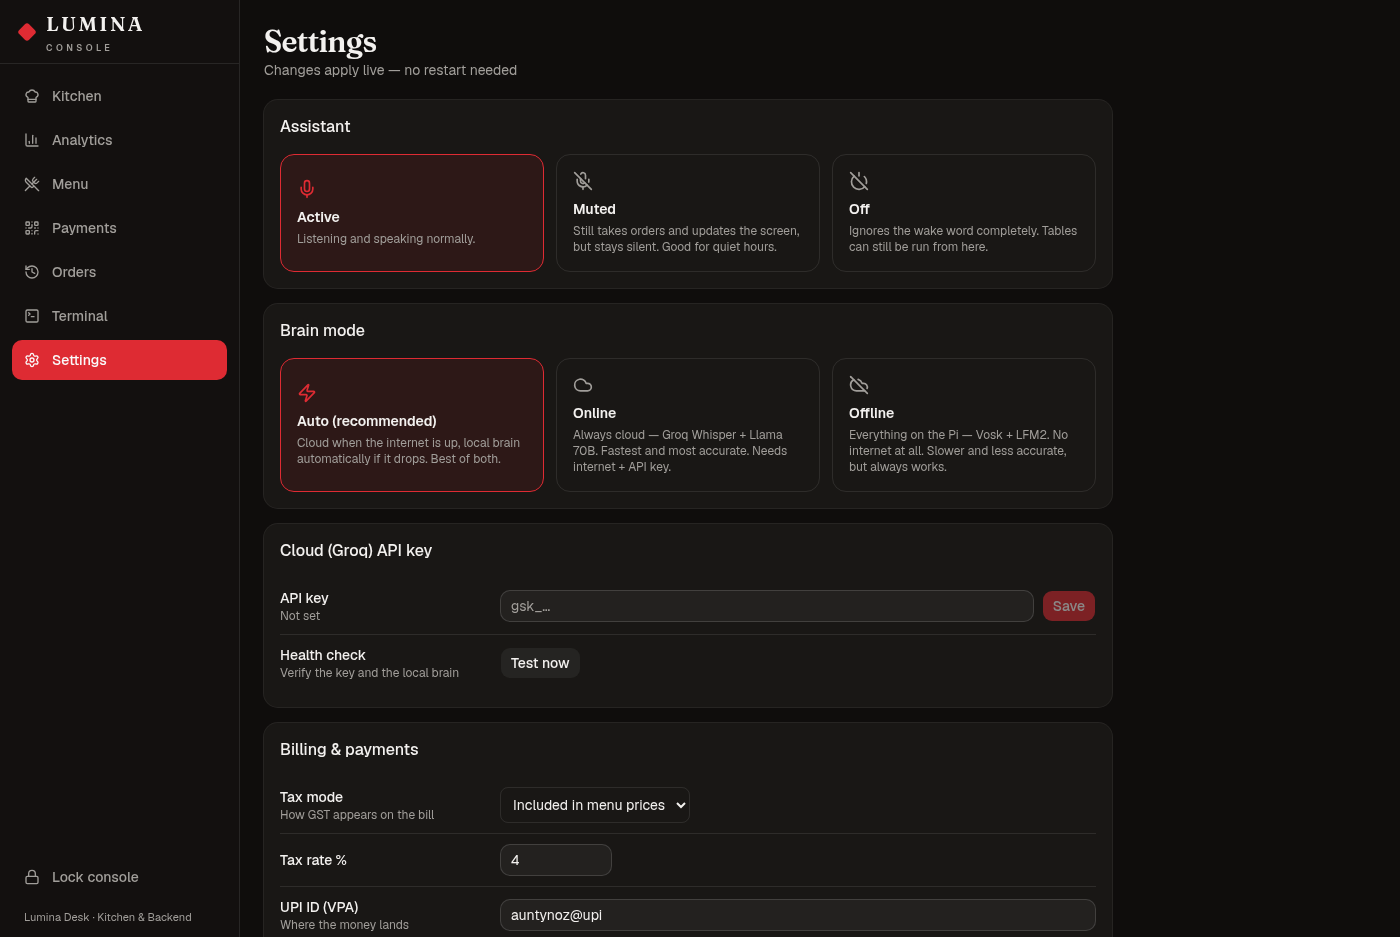
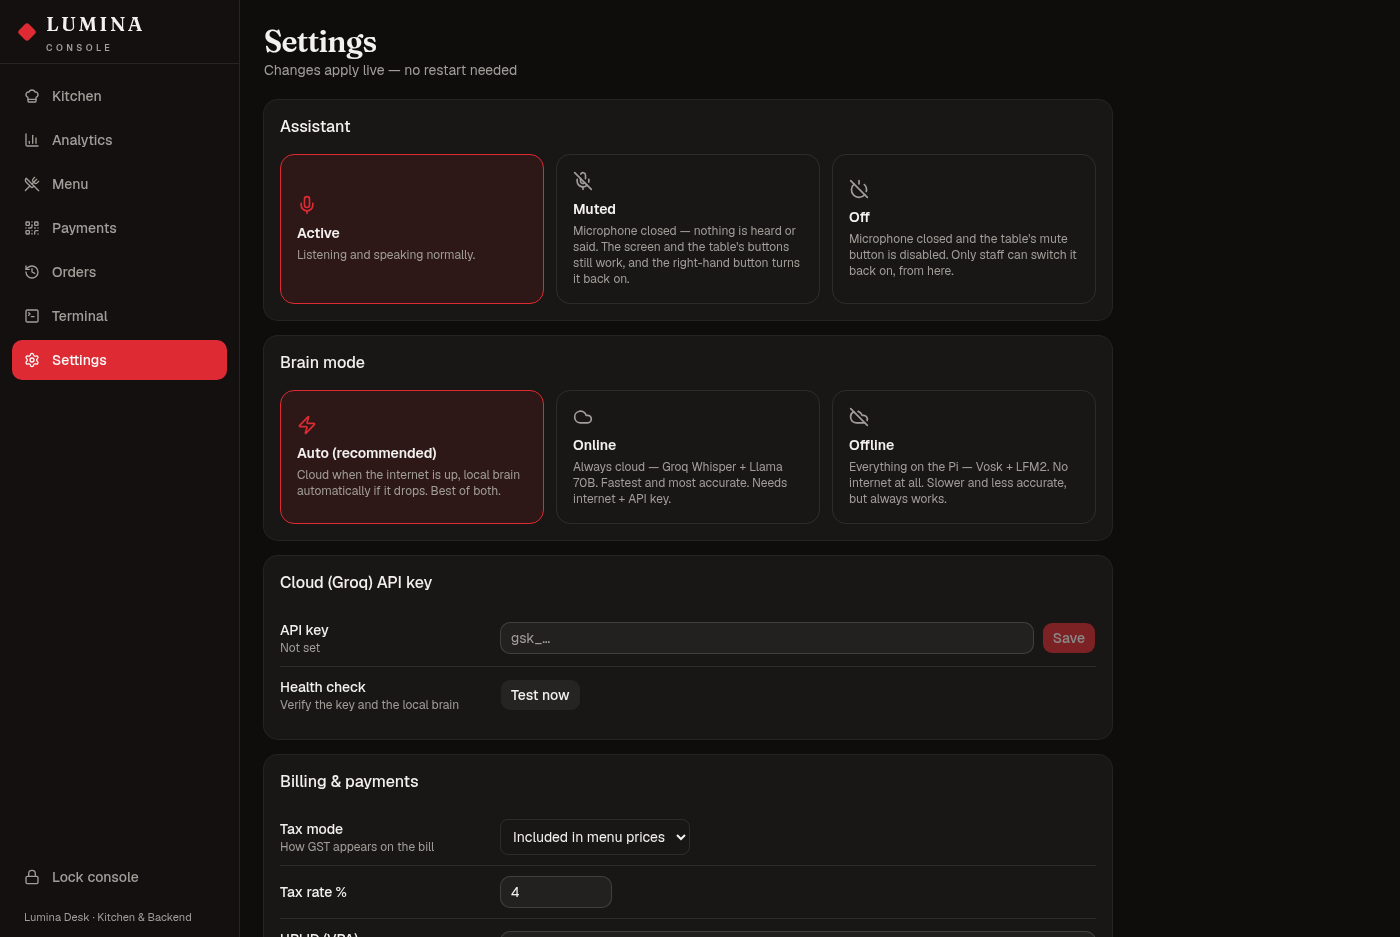
Muting closes the microphone instead of ignoring it
Mute meant "keep listening, don't speak". That is the wrong promise to make at a
restaurant table: the guest has no way to tell a mic that is being ignored from
one that is off, and the honest answer is that it was still recording.

Now "muted" and "off" both release the ALSA device — the reSpeaker's LED ring
goes dark, and `fuser /dev/snd/pcmC2D0c` shows nothing holding it. The wake-word
engine only runs while the state is active; buttons and console arrive over
MQTT, so both still work with the mic shut.

The two states now differ in who can undo them: the panel's right-hand button
toggles mute, but is ignored when the table is off, because off is a manager's
call from the console and the floor shouldn't quietly reverse it.

The panel stops lying, too. It no longer invites a guest to say "Hey Lumina"
when nothing is listening — the empty screen explains the mic is off and which
button brings it back, the footer points at the bill and server buttons, and the
badge reads "Mic off" rather than "Voice muted".

Verified end to end: console mute, console unmute, panel button both ways, and
the button correctly refusing to act while off.

diff --git a/admin/src/pages/Settings.tsx b/admin/src/pages/Settings.tsx
@@ -11,9 +11,9 @@ const ASSISTANT_STATES = [
   { id: "active", icon: Mic, label: "Active",
     desc: "Listening and speaking normally." },
   { id: "muted", icon: MicOff, label: "Muted",
-    desc: "Still takes orders and updates the screen, but stays silent. Good for quiet hours." },
+    desc: "Microphone closed — nothing is heard or said. The screen and the table's buttons still work, and the right-hand button turns it back on." },
   { id: "off", icon: PowerOff, label: "Off",
-    desc: "Ignores the wake word completely. Tables can still be run from here." },
+    desc: "Microphone closed and the table's mute button is disabled. Only staff can switch it back on, from here." },
 ]
 
 const MODES = [

diff --git a/ui_render.py b/ui_render.py
@@ -125,11 +125,11 @@ def _header(d, table, status, listening):
     tf = font("sans_bold", 18)
     _right(d, W - MARGIN, 43, f"Table {table}", tf, BLACK)
 
-    # When staff have muted the assistant, say so plainly — otherwise a guest
-    # would talk to a screen that has quietly stopped answering.
+    # When the mic is closed, say so plainly — otherwise a guest would talk to a
+    # screen that has quietly stopped listening.
     state = _assistant_state()
     if state in ("muted", "off"):
-        label = "Voice muted" if state == "muted" else "Voice off"
+        label = "Mic off" if state == "muted" else "Voice off"
         sf = font("sans_bold", 15)
         sw = d.textlength(label, font=sf)
         bx0 = W - MARGIN - sw - 56
@@ -250,7 +250,9 @@ def render_order(session, table="07", status="Listening", hint=None, kitchen=Non
             else:
                 y += 46
         _bill_card(d, session, rupee)
-        _footer(d, hint or "Say “Hey Lumina” to add more, or to pay.")
+        _footer(d, hint or ("Say “Hey Lumina” to add more, or to pay."
+                            if _assistant_state() == "active" else
+                            "Mic off · middle button shows your bill, left calls a server"))
     else:
         _render_welcome(d)
         _footer(d, hint or "Pure veg  ·  Pizzas, burgers, momos, shakes  ·  Table service by voice")
@@ -364,14 +366,35 @@ def render_payment(session, upi_url, table="07", vpa="", paid=False):
     _right(d, W - MARGIN, y + 34, f"{rupee}{_money(session.total())}",
            font("sans_bold", 40), RED)
 
-    _footer(d, f"Paying {vpa or 'the restaurant'} · say “Hey Lumina” if you need help")
+    _footer(d, f"Paying {vpa or 'the restaurant'} · "
+            + ("say “Hey Lumina” if you need help" if _assistant_state() == "active"
+               else "press the left button if you need help"))
     return img
 
 
 def _render_welcome(d):
     """Empty-cart state. The printed menu is already on the table, so this screen
     doesn't repeat it — it teaches the one thing a new guest needs to know: the
-    wake word, and the three things worth asking for."""
+    wake word, and the three things worth asking for.
+
+    When the mic is closed it must not invite anyone to talk to it. A guest who
+    speaks to a dead screen and gets nothing back blames the restaurant."""
+    state = _assistant_state()
+    if state != "active":
+        d.text((MARGIN, 156), "The microphone is", font=font("sans", 20), fill=BLACK)
+        d.text((MARGIN, 186), "switched off", font=font("serif_bold", 46), fill=RED)
+        d.text((MARGIN, 258),
+               "Press the right-hand button to turn it back on."
+               if state == "muted" else "Please order with a member of staff.",
+               font=font("sans", 18), fill=BLACK)
+        y = 300
+        for line in ("Left button  ·  call a server",
+                     "Middle button  ·  show your bill"):
+            d.ellipse([MARGIN + 2, y + 7, MARGIN + 8, y + 13], fill=RED)
+            d.text((MARGIN + 22, y), line, font=font("sans", 17), fill=BLACK)
+            y += 28
+        return
+
     d.text((MARGIN, 156), "Just say", font=font("sans", 20), fill=BLACK)
     d.text((MARGIN, 186), "“Hey Lumina”", font=font("serif_bold", 46), fill=RED)
 

diff --git a/wake_listen.py b/wake_listen.py
@@ -17,6 +17,7 @@ Stop: Ctrl-C
 """
 import json
 import os
+import queue
 import sys
 import time
 
@@ -81,12 +82,17 @@ def _handle_button(key: str, tbl, client):
         print(f"  [button] bill shown (₹{total:.0f})", flush=True)
 
     elif key == "2":
-        now_muted = settings.get("assistant_state") != "muted"
-        state = "muted" if now_muted else "active"
-        settings.save({"assistant_state": state})
-        client.publish(mqtt_bus.T_ASSISTANT, state, retain=True)
-        print(f"  [button] assistant {'muted' if now_muted else 'unmuted'}", flush=True)
-        if not now_muted:                 # speak only when turning sound back on
+        state = settings.get("assistant_state")
+        if state == "off":
+            # "Off" is a manager's decision made in the console. The floor button
+            # must not quietly undo it.
+            print("  [button] ignored — assistant is off", flush=True)
+            return
+        new = "active" if state == "muted" else "muted"
+        settings.save({"assistant_state": new})
+        client.publish(mqtt_bus.T_ASSISTANT, new, retain=True)
+        print(f"  [button] mic {'closed' if new == 'muted' else 'open'}", flush=True)
+        if new == "active":               # speak only when the mic comes back
             speak("I'm listening again.")
 
 
@@ -264,7 +270,27 @@ def main() -> None:
 
     with AudioCapture() as capture:
         while True:
-            frame = capture.read(timeout=2.0)     # int16 mono @16k
+            # Muted and off both mean the microphone is CLOSED, not ignored —
+            # so a guest can see (reSpeaker LED) and trust that nothing is being
+            # heard. Staff bring it back from the console or the panel button,
+            # both of which arrive over MQTT and so still work with the mic shut.
+            if settings.get("assistant_state") != "active":
+                if capture.live:
+                    capture.pause()
+                    detector.reset()
+                    print(f"  [mic] closed — assistant "
+                          f"{settings.get('assistant_state')}", flush=True)
+                time.sleep(0.3)
+                continue
+            if not capture.live:
+                capture.resume()
+                detector.reset()
+                print("  [mic] open — assistant active", flush=True)
+
+            try:
+                frame = capture.read(timeout=2.0)     # int16 mono @16k
+            except queue.Empty:
+                continue
             score = detector.score(frame)
 
             now = time.time()
@@ -274,11 +300,6 @@ def main() -> None:
                     and now - tbl["last"] > config.SESSION_IDLE_RESET_SEC):
                 tbl["session"] = Session()
                 tbl["welcomed"] = False
-
-            # Staff can switch the assistant off from the console or a panel
-            # button; the service keeps running, it just stops responding.
-            if settings.get("assistant_state") == "off":
-                continue
 
             thresh = float(settings.get("wake_threshold", config.OWW_THRESHOLD))
             if score >= thresh and (now - last_trigger) > config.WAKE_COOLDOWN_SEC:

diff --git a/audio.py b/audio.py
@@ -24,6 +24,10 @@ FRAME = 1600  # 0.1 s @ 16 kHz — capture granularity
 class AudioCapture:
     def __init__(self, max_seconds: float = 30.0):
         self._q: "queue.Queue[np.ndarray]" = queue.Queue(maxsize=int(max_seconds / 0.1))
+        self._stream = None
+        self._open()
+
+    def _open(self):
         self._stream = sd.InputStream(
             device=config.INPUT_DEVICE_INDEX,
             samplerate=config.SAMPLE_RATE,
@@ -50,8 +54,34 @@ class AudioCapture:
         self._stream.start()
 
     def stop(self):
-        self._stream.stop()
-        self._stream.close()
+        if self._stream is not None:
+            self._stream.stop()
+            self._stream.close()
+            self._stream = None
+
+    @property
+    def live(self) -> bool:
+        return self._stream is not None
+
+    def pause(self):
+        """Close the input stream so the OS hands the microphone back.
+
+        Muting has to mean the mic is *off*, not that we quietly ignore what it
+        hears — so we release the ALSA device entirely rather than just dropping
+        frames. On the reSpeaker the LED ring goes dark, which is the honest
+        signal a guest at the table needs.
+        """
+        if self._stream is None:
+            return
+        self.stop()
+        self.flush()
+
+    def resume(self):
+        if self._stream is not None:
+            return
+        self._open()
+        self._stream.start()
+        self.flush()
 
     def read(self, timeout: float = 1.0) -> np.ndarray:
         """Return the next 0.1 s frame of int16 mono audio."""

diff --git a/tts.py b/tts.py
@@ -109,14 +109,17 @@ def _speak_espeak(text, lang="en"):
 def speak(text, lang="en"):
     """Say `text` in the given espeak language code (default English).
 
-    In "muted" state we still log and show the reply on the ePaper, we just
-    don't play audio — useful during quiet hours or a very loud room.
+    When the assistant isn't active its microphone is closed, so nothing should
+    be coming through here anyway — but unprompted messages (a payment landing,
+    say) still can. Log them and show them on the ePaper; don't say them out
+    loud into a room that asked for quiet.
     """
     print(f"[Lumina/{lang}] {text}")
     try:
         import settings
-        if settings.get("assistant_state") == "muted":
-            print("  (muted — not spoken)", flush=True)
+        state = settings.get("assistant_state")
+        if state != "active":
+            print(f"  ({state} — not spoken)", flush=True)
             return
     except Exception:
         pass

diff --git a/settings.py b/settings.py
@@ -28,8 +28,10 @@ DEFAULTS = {
 
     # --- assistant state (controlled from the console / panel buttons) ---
     # "active" : listens and speaks
-    # "muted"  : still listens and updates the screen, but stays silent
-    # "off"    : ignores the wake word entirely
+    # "muted"  : microphone CLOSED (device released). Screen + panel buttons
+    #            still work, and the panel's mute button turns it back on.
+    # "off"    : as muted, but the panel's mute button won't undo it — staff
+    #            have to switch it back on from the console.
     "assistant_state": "active",
 
     # --- restaurant ---

diff --git a/README.md b/README.md
@@ -44,7 +44,7 @@ That's the whole product. Everything below is how it's built.
 | ![Kitchen preparing](docs/images/epaper-preparing.png) | ![Pay screen](docs/images/epaper-pay.png) |
 | **Cooking** — the kitchen's status comes back to the table | **Paying** — dynamic UPI QR for this exact bill |
 | ![Muted](docs/images/epaper-muted.png) | ![Thank you](docs/images/epaper-thanks.png) |
-| **Muted** — still takes orders, just stays silent | **Done** — settled, with a feedback QR |
+| **Mic off** — the device is released, not just ignored | **Done** — settled, with a feedback QR |
 
 *These are the real 800×480 renders, generated by `ui_render.py`.*
 
@@ -369,11 +369,18 @@ short beep on the GPIO 45 buzzer so the guest knows the press registered.
 From **Settings → Assistant**, or the right-hand panel button:
 
 - **Active** — listening and speaking.
-- **Muted** — still takes orders and updates the screen, but says nothing. The
-  panel shows a 🔇 *Voice muted* badge so a guest isn't left talking to a screen
-  that has quietly stopped answering.
-- **Off** — ignores the wake word entirely; staff can still run the table from
-  the console.
+- **Muted** — **the microphone is closed.** Not "we ignore what it hears" — the
+  ALSA device is released, so the reSpeaker's LED ring goes dark and a guest can
+  see that nothing is being recorded. The screen and the panel buttons keep
+  working, and the right-hand button turns it back on.
+- **Off** — same, plus the panel's mute button stops working. *Off* is a
+  manager's decision from the console; the floor can't quietly undo it.
+
+In both states the table still works — the middle button shows the bill, the left
+button calls a server — and the panel says so instead of inviting people to talk
+to a microphone that isn't listening.
+
+![Mic off](docs/images/epaper-muted.png)
 
 ### Online vs offline
 
